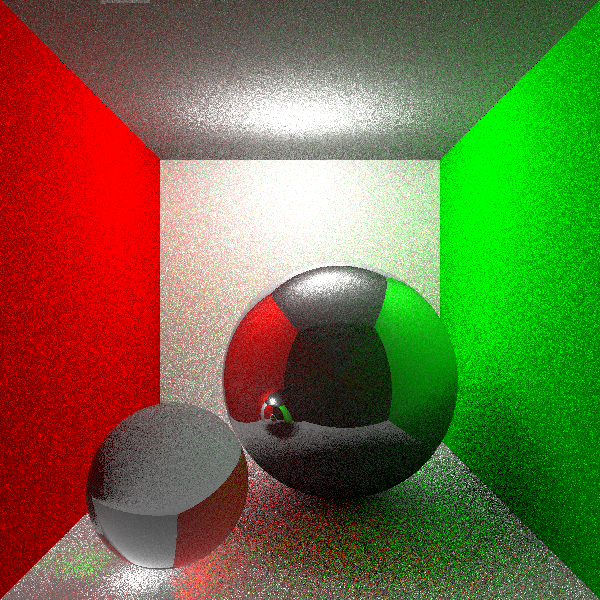
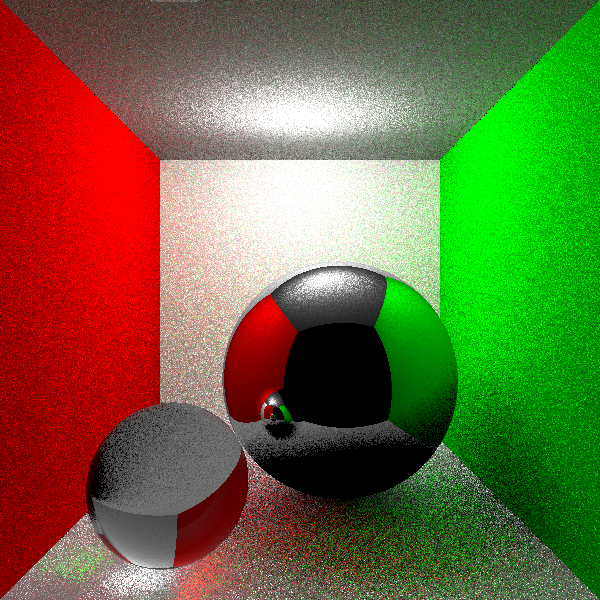
Reflection overbright fixed, gi only supports diffuse at the moment

diff --git a/RenderProcess.py b/RenderProcess.py
@@ -208,39 +208,37 @@ class RenderProcess(multiprocessing.Process):
 			#Diffuse material
 			hitPointColor = hitPointColor + self.getHitPointColor(hitResult)
 
-		#Recurvsive path tracing--------------------
-		if recursiveCnt < self.indirectDepthLimit:
-			recursiveCnt += 1
-			incomingRayDir = hitResult[1] - prevHitPos
+			#Recurvsive path tracing, only for diffuse material--------------------
+			if recursiveCnt < self.indirectDepthLimit:
+				recursiveCnt += 1
+				incomingRayDir = hitResult[1] - prevHitPos
 
-			tangentAxis = incomingRayDir.cross(hitResult[2]).normalized()
-			biTangentAxis = hitResult[2].cross(tangentAxis).normalized()
+				tangentAxis = incomingRayDir.cross(hitResult[2]).normalized()
+				biTangentAxis = hitResult[2].cross(tangentAxis).normalized()
 
-			indirectColor = Vector(0,0,0)
-			currentObj = self.scene.getObjectById(hitResult[3])
+				indirectColor = Vector(0,0,0)
+				currentObj = self.scene.getObjectById(hitResult[3])
 
-			for i in range(self.indirectSamples):
-				tangentRotAmount = (random.random()-0.5)*math.pi
-				biTrangentRotAmount = (random.random()-0.5)*math.pi
-				indirectRayDir = hitResult[2].rot("A",tangentRotAmount,tangentAxis).rot("A",biTrangentRotAmount,biTangentAxis)
-				biasedOrigin = hitResult[1] + indirectRayDir * self.bias
-				indirectRay = Ray(biasedOrigin,indirectRayDir)
+				for i in range(self.indirectSamples):
+					tangentRotAmount = (random.random()-0.5)*math.pi
+					biTrangentRotAmount = (random.random()-0.5)*math.pi
+					indirectRayDir = hitResult[2].rot("A",tangentRotAmount,tangentAxis).rot("A",biTrangentRotAmount,biTangentAxis)
+					biasedOrigin = hitResult[1] + indirectRayDir * self.bias
+					indirectRay = Ray(biasedOrigin,indirectRayDir)
 
-				indirectHitResult = []
-				indirectHitBool = self.scene.getClosestIntersection(indirectRay,indirectHitResult)
+					indirectHitResult = []
+					indirectHitBool = self.scene.getClosestIntersection(indirectRay,indirectHitResult)
 
-				if indirectHitBool:
-					indirectHitPColor = self.getColor(indirectHitResult,hitResult[1],recursiveCnt) #get the indirect color
-					lambert = hitResult[2].dot(indirectRayDir)
-					indirectPointDist = (indirectHitResult[1] - hitResult[1]).length()
-					indirectLitColor = indirectHitPColor * lambert  #/ (2*math.pi*math.pow(indirectPointDist,2))
-					indirectColor = indirectColor + indirectLitColor
+					if indirectHitBool:
+						indirectHitPColor = self.getColor(indirectHitResult,hitResult[1],recursiveCnt) #get the indirect color
+						lambert = hitResult[2].dot(indirectRayDir)
+						indirectPointDist = (indirectHitResult[1] - hitResult[1]).length()
+						indirectLitColor = indirectHitPColor * lambert  #/ (2*math.pi*math.pow(indirectPointDist,2))
+						indirectColor = indirectColor + indirectLitColor
 
-			indirectColor = indirectColor / self.indirectSamples * 2 * math.pi
-			matColor = currentObj.material.diffuseColor
-			hitPointColor = hitPointColor + indirectColor.colorMult(matColor)
-
-		#Generation random derections
+				indirectColor = indirectColor / self.indirectSamples * 2 * math.pi
+				matColor = currentObj.material.diffuseColor
+				hitPointColor = hitPointColor + indirectColor.colorMult(matColor)
 
 		return hitPointColor
 

diff --git a/README.md b/README.md
@@ -24,13 +24,13 @@
     * Diffuse / Lambert [✓]
     * Mirror [✓]
     * Glossy
-    * Glass
+    * Glass [✓]
 
   * Core:
     * Camera Ray [✓]
     * Shadow Ray / Direct Lighting [✓]
     * Render Equation integration
-    * Recursive tracing [only first pass]
+    * Recursive tracing [Working but slow]
 
   * Optimization:
     * multiprocessing [✓]
@@ -47,3 +47,4 @@
   * Separate thread for window [✓]
   * Render time calculation [✓]
   * Interactive Render
+  * Global render settings [✓]
